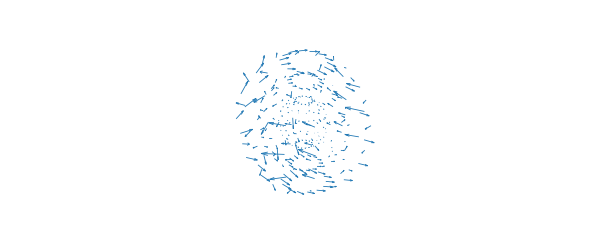
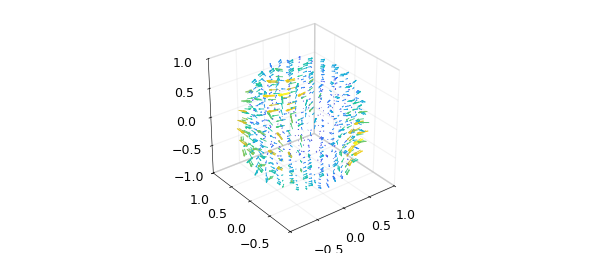
Restore public 3D plots in PTDecomposition example

diff --git a/examples/sphere/ptdecomposition.py b/examples/sphere/ptdecomposition.py
@@ -12,7 +12,6 @@ import matplotlib
 matplotlib.use("Agg")
 import os
 import sys
-import warnings
 
 import matplotlib.pyplot as plt
 import numpy as np
@@ -29,56 +28,16 @@ _HERE = os.path.dirname(os.path.abspath(__file__))
 _IMG = os.path.join(_HERE, '..', '..', 'docs', 'images', 'sphere')
 
 
-def _quiver(ax, v, title, nr=3, nl=14, nt=7):
-    rs = np.linspace(0.35, 0.95, nr)
-    lam = np.linspace(-np.pi, np.pi, nl, endpoint=False)
-    th = np.linspace(0.35, np.pi - 0.35, nt)
-    R, L, T = np.meshgrid(rs, lam, th, indexing="ij")
-    sh = R.shape
-    vx = np.asarray(v.components[0](
-        R.reshape(1, -1), L.reshape(1, -1), T.reshape(1, -1))).reshape(sh)
-    vy = np.asarray(v.components[1](
-        R.reshape(1, -1), L.reshape(1, -1), T.reshape(1, -1))).reshape(sh)
-    vz = np.asarray(v.components[2](
-        R.reshape(1, -1), L.reshape(1, -1), T.reshape(1, -1))).reshape(sh)
-    X = R * np.cos(L) * np.sin(T)
-    Y = R * np.sin(L) * np.sin(T)
-    Z = R * np.cos(T)
-    ax.quiver(X, Y, Z, vx, vy, vz, length=0.18, lw=0.6,
-              color="tab:blue")
-    ax.set_box_aspect((1, 1, 1))
-    ax.set_axis_off()
-    ax.set_title(title)
-
-
-def _slice(ax, c, title, n=140):
-    g = np.linspace(-1, 1, n)
-    A, B = np.meshgrid(g, g)
-    inside = A**2 + B**2 <= 1
-    xi, zi = A[inside], B[inside]
-    ri = np.sqrt(xi**2 + zi**2)
-    lami = np.where(xi >= 0, 0.0, np.pi)
-    thi = np.arccos(np.clip(np.where(ri > 0, zi / np.maximum(ri, 1e-300),
-                                     1.0), -1, 1))
-    V = np.full(A.shape, np.nan)
-    V[inside] = np.asarray(c(ri.reshape(1, -1), lami.reshape(1, -1),
-                             thi.reshape(1, -1))).ravel()
-    ax.imshow(V, origin="lower", cmap="viridis", extent=(-1, 1, -1, 1))
-    ax.set_axis_off()
-    ax.set_title(title)
-
-
 def run():
     os.makedirs(_IMG, exist_ok=True)
-    warnings.filterwarnings("ignore")
 
     Pw = Ballfun.from_function(lambda x, y, z: np.cos(x * y))
     Tw = Ballfun.from_function(lambda x, y, z: np.sin(y * z))
     w = Ballfunv.PT2ballfunv(Pw, Tw)
 
-    fig = plt.figure(figsize=(6.4, 6.0))
+    fig = plt.figure(figsize=(6.0, 2.53))
     ax = fig.add_subplot(projection="3d")
-    _quiver(ax, w, "")
+    w.quiver(ax=ax)
     fig.set_facecolor("white")
     fig.tight_layout()
     _savefig(fig, os.path.join(_IMG, "PTDecomposition_01.png"), size=(600, 253))
@@ -88,21 +47,22 @@ def run():
     print(f"     {float(w.div().norm()):.15e}")
 
     P2, T2 = w.PTdecomposition()
-    fig, axes = plt.subplots(1, 2, figsize=(9.6, 4.6))
-    _slice(axes[0], P2, "poloidal scalar")
-    _slice(axes[1], T2, "toroidal scalar")
+    fig, axes = plt.subplots(1, 2, figsize=(6.0, 2.53),
+                             subplot_kw={"projection": "3d"})
+    P2.plot(ax=axes[0], title="poloidal scalar")
+    T2.plot(ax=axes[1], title="toroidal scalar")
     fig.set_facecolor("white")
     fig.tight_layout()
     _savefig(fig, os.path.join(_IMG, "PTDecomposition_02.png"), size=(600, 253))
     plt.close(fig)
 
     Pv, Tv = Ballfunv.PT2ballfunv(P2, T2, nargout=2)
-    fig = plt.figure(figsize=(13.5, 4.6))
+    fig = plt.figure(figsize=(6.0, 2.53))
     for i, (vv, ttl) in enumerate([
             (w, "divergence-free field"), (Pv, "poloidal component"),
             (Tv, "toroidal component")]):
         ax = fig.add_subplot(1, 3, i + 1, projection="3d")
-        _quiver(ax, vv, ttl)
+        vv.quiver(ax=ax, title=ttl)
     fig.set_facecolor("white")
     fig.tight_layout()
     _savefig(fig, os.path.join(_IMG, "PTDecomposition_03.png"), size=(600, 253))

diff --git a/HANDOFF_CODEX.md b/HANDOFF_CODEX.md
@@ -1,5 +1,22 @@
 # chebfunjax: handoff to a Codex agent (2026-10-02)
 
+## PTDecomposition source plot structure and dimensions (2026-10-09)
+
+The example now calls public Ballfunv.quiver and Ballfun.plot. This replaces
+invented sparse blue arrows and flat scalar images with four magnitude-colored
+vector plots and two five-surface 3D scalar plots. All three generated figures
+have the reference 600x253 dimensions. Fresh printed outputs are recorded in
+the page. One full CPU example run passed its structure/size checks (69.39s
+pytest, 2871584KiB peak); root audited 2960 runtime files and inspected all
+three generated images against the references.
+
+Full visual parity is NOT established: lighting/depth sorting, arrow scaling,
+ticks and spacing still differ; some edge tick labels are clipped. Numerical
+outputs differ from the retained MATLAB rerun, with no new tolerance invented
+to declare a match. The original computation sequence is unchanged. The page
+remains open for numerical and renderer parity despite corrected plot types
+and sizes. See docs/ptdecomposition_cpu_plot_refresh_20261009.json.
+
 ## Operator preference factory and complete native test (2026-10-09)
 
 Restored top-level scale=NaN, lambdaMin=1e-6 and happinessCheck factory fields.

diff --git a/STATUS.md b/STATUS.md
@@ -1,5 +1,22 @@
 # Parity status — 2026-10-09
 
+## PTDecomposition source plot structure and dimensions (2026-10-09)
+
+The example now calls public Ballfunv.quiver and Ballfun.plot. This replaces
+invented sparse blue arrows and flat scalar images with four magnitude-colored
+vector plots and two five-surface 3D scalar plots. All three generated figures
+have the reference 600x253 dimensions. Fresh printed outputs are recorded in
+the page. One full CPU example run passed its structure/size checks (69.39s
+pytest, 2871584KiB peak); root audited 2960 runtime files and inspected all
+three generated images against the references.
+
+Full visual parity is NOT established: lighting/depth sorting, arrow scaling,
+ticks and spacing still differ; some edge tick labels are clipped. Numerical
+outputs differ from the retained MATLAB rerun, with no new tolerance invented
+to declare a match. The original computation sequence is unchanged. The page
+remains open for numerical and renderer parity despite corrected plot types
+and sizes. See docs/ptdecomposition_cpu_plot_refresh_20261009.json.
+
 ## Operator preference factory and complete native test (2026-10-09)
 
 Restored top-level scale=NaN, lambdaMin=1e-6 and happinessCheck factory fields.

diff --git a/docs/examples/sphere/PTDecomposition.md b/docs/examples/sphere/PTDecomposition.md
@@ -37,7 +37,7 @@ norm( div( w ) )
 
 ```text
 ans =
-     1.179574108110481e-10
+     1.148940403272226e-10
 ```
 
 ## Computing the PT decomposition
@@ -90,7 +90,7 @@ norm( v - w )
 
 ```text
 ans =
-     1.138299570975991e-12
+     1.102028124774853e-12
 ```
 
 ## References
